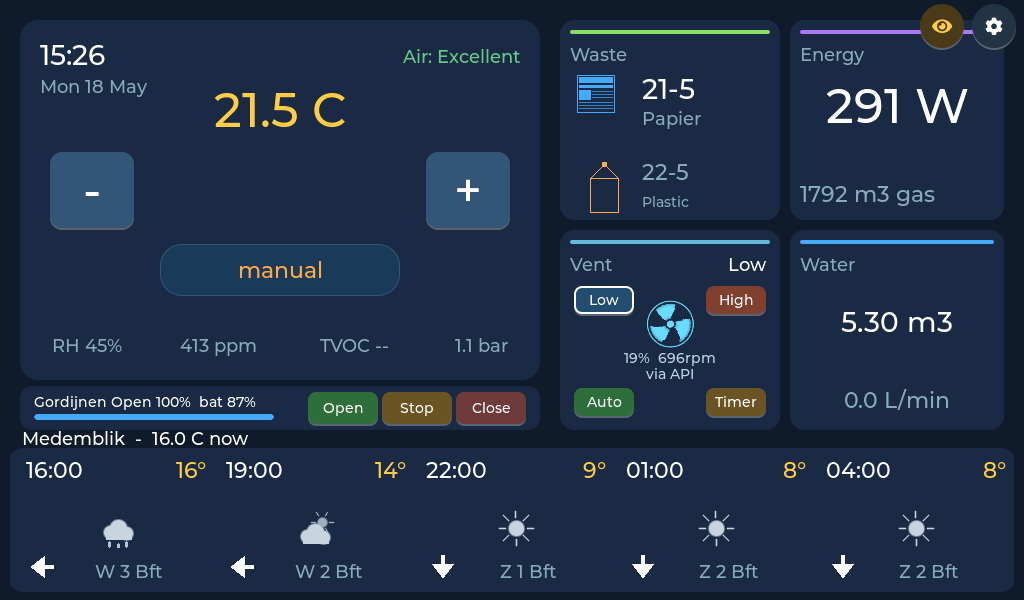
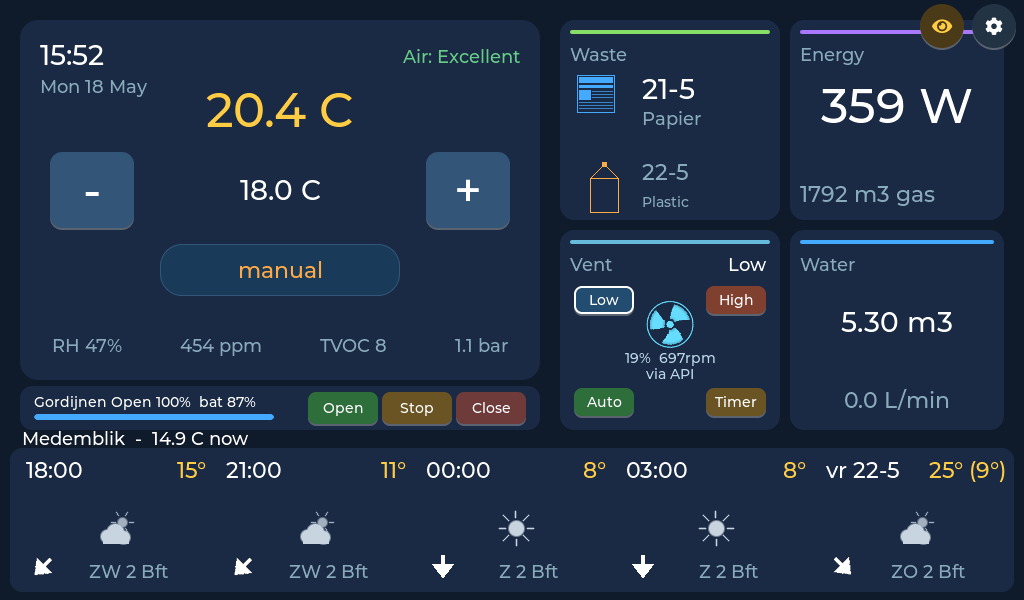
Home/dim setpoint always shown; skip "now" in forecast; dim gets city header + wind; sp_row passes clicks through; schedule timeline rotated to vertical (column per day)
1. Setpoint now visible on home + dim regardless of CH state. Only
   the "to" prefix is gated on burner_on so idle shows "18.0 C" and
   heating shows "to 22.0 C" — fixes the "setpoint fully gone when
   idle" regression.

2. Home + dim forecast strips skip the first hourly slot (which
   duplicates the "<town> - 14.9 C now" header). Daily fallback
   unchanged.

3. Dim screen gains its own city header ("<town> - X.X C now")
   sitting just above the forecast strip, mirroring the home tile.

4. Dim forecast slots now show wind direction inline with the temp
   (e.g. "15 C  ZW2"), bringing it to parity with the home strip.

5. Heater detail navigation: the sp_row (the [-] setpoint [+] card on
   the home tile) used to be an lv_obj which absorbs every click. The
   user could no longer tap the heater tile to open detail because
   the bottom half of the tile was an unclickable dead zone. Cleared
   the CLICKABLE flag on sp_row so taps on its dead-centre label
   pass through to the tile click handler; the +/- buttons keep
   their own handlers untouched.

6. Schedule timeline flipped from horizontal (7 rows x 24 cols) to
   vertical (7 cols x 24 rows). Each weekday is now a column with
   00:00 at the top and 24:00 at the bottom, schedule blocks
   stacked vertically inside, "now" indicator a horizontal stripe
   across today's column. Reads like a planner.

diff --git a/lvgl_ui_recovered/src/screen_schedule.c b/lvgl_ui_recovered/src/screen_schedule.c
@@ -27,13 +27,14 @@ static lv_obj_t * timeline_now_line;
 static lv_obj_t * day_list;       /* parent of switch-point rows */
 static lv_timer_t * refresh_timer = NULL;
 
-/* Layout constants */
-#define TL_X        70
-#define TL_Y        160
-#define TL_W        920
-#define TL_H        180
-#define TL_ROW_H    24
-#define HOUR_PX     (TL_W / 24)   /* ~38 px per hour */
+/* Layout constants — VERTICAL orientation: one column per weekday, time
+ * runs top→bottom (00:00 at top, 24:00 at bottom). Reads like a planner. */
+#define TL_X        80
+#define TL_Y        140
+#define TL_COL_W    120                /* width of each weekday column   */
+#define TL_HOUR_PX  18                 /* vertical pixels per hour        */
+#define TL_H        (24 * TL_HOUR_PX)  /* total height = 432 px           */
+#define TL_W        (7  * TL_COL_W)    /* total width  = 840 px           */
 
 /* Forward decls */
 static void rebuild_day_list(void);
@@ -60,75 +61,98 @@ static void on_chip_tap(lv_event_t * e) {
     rebuild_day_list();
 }
 
-/* ---------- timeline ---------- */
+/* ---------- timeline (vertical layout) ---------- */
 static void rebuild_timeline(void) {
     /* Clear all children of timeline_box except the now-line. */
     lv_obj_clean(timeline_box);
     timeline_now_line = NULL;
 
-    /* Hour gridlines for visual reference (every 6h). */
-    for (int h = 0; h <= 24; h += 6) {
+    /* Day-of-week column headers across the top inside the timeline box. */
+    for (int d = 0; d < 7; d++) {
+        lv_obj_t * h = lv_label_create(timeline_box);
+        lv_label_set_text(h, schedule_day_short(d));
+        lv_obj_set_style_text_color(h, lv_color_hex(0x88aabb), 0);
+        lv_obj_set_style_text_font(h, &lv_font_montserrat_18, 0);
+        lv_obj_set_width(h, TL_COL_W);
+        lv_obj_set_style_text_align(h, LV_TEXT_ALIGN_CENTER, 0);
+        lv_obj_set_pos(h, d * TL_COL_W, -28);
+    }
+
+    /* Horizontal hour gridlines every 6 hours, spanning all 7 day columns. */
+    for (int hr = 0; hr <= 24; hr += 6) {
+        int y = hr * TL_HOUR_PX;
         lv_obj_t * tick = lv_obj_create(timeline_box);
-        lv_obj_set_size(tick, 1, 7 * TL_ROW_H);
-        lv_obj_set_pos(tick, h * HOUR_PX, 0);
+        lv_obj_set_size(tick, TL_W, 1);
+        lv_obj_set_pos(tick, 0, y);
         lv_obj_set_style_bg_color(tick, lv_color_hex(0x223344), 0);
         lv_obj_set_style_border_width(tick, 0, 0);
         lv_obj_set_style_radius(tick, 0, 0);
         lv_obj_clear_flag(tick, LV_OBJ_FLAG_SCROLLABLE);
+        /* Hour label on the LEFT outside the column area. */
+        lv_obj_t * hl = lv_label_create(timeline_box);
+        lv_label_set_text_fmt(hl, "%02d", hr);
+        lv_obj_set_style_text_color(hl, lv_color_hex(0x88aabb), 0);
+        lv_obj_set_style_text_font(hl, &lv_font_montserrat_14, 0);
+        lv_obj_set_pos(hl, -32, y - 7);
     }
 
-    /* Schedule blocks. Entries can span days (e.g., 23:00 Mon → 07:00 Tue),
-       so we may need to draw two rectangles per entry. */
+    /* Schedule blocks. Each is a vertical rectangle inside its day's
+     * column, from start-time at the top to end-time below. Overnight
+     * entries split into a "rest of source day" piece + "start of next
+     * day" piece. */
     for (int i = 0; i < schedule_count; i++) {
         const schedule_entry_t * e = &schedule_entries[i];
-        int s_min_of_day = e->start_hour * 60 + e->start_min;
-        int e_min_of_day = e->end_hour   * 60 + e->end_min;
+        int s_min = e->start_hour * 60 + e->start_min;
+        int e_min = e->end_hour   * 60 + e->end_min;
         int day = e->start_day;
-        if (e->end_day == e->start_day && e_min_of_day > s_min_of_day) {
-            /* Same-day segment */
-            int x1 = (s_min_of_day * HOUR_PX) / 60;
-            int x2 = (e_min_of_day * HOUR_PX) / 60;
+        uint32_t col = schedule_state_color(e->target_state);
+        int col_x = day * TL_COL_W + 4;
+        int col_w = TL_COL_W - 8;
+        if (e->end_day == e->start_day && e_min > s_min) {
+            int y1 = (s_min * TL_HOUR_PX) / 60;
+            int y2 = (e_min * TL_HOUR_PX) / 60;
             lv_obj_t * b = lv_obj_create(timeline_box);
-            lv_obj_set_size(b, x2 - x1, TL_ROW_H - 4);
-            lv_obj_set_pos(b, x1, day * TL_ROW_H + 2);
-            lv_obj_set_style_bg_color(b, lv_color_hex(schedule_state_color(e->target_state)), 0);
+            lv_obj_set_size(b, col_w, y2 - y1);
+            lv_obj_set_pos(b, col_x, y1);
+            lv_obj_set_style_bg_color(b, lv_color_hex(col), 0);
             lv_obj_set_style_border_width(b, 0, 0);
             lv_obj_set_style_radius(b, 3, 0);
             lv_obj_clear_flag(b, LV_OBJ_FLAG_SCROLLABLE);
         } else {
-            /* Overnight: draw two parts. */
-            int x1 = (s_min_of_day * HOUR_PX) / 60;
-            int x_end_day1 = 24 * HOUR_PX;
+            /* Overnight — bottom slice on start_day, top slice on end_day. */
+            int y1 = (s_min * TL_HOUR_PX) / 60;
+            int y_end = TL_H;
             lv_obj_t * b1 = lv_obj_create(timeline_box);
-            lv_obj_set_size(b1, x_end_day1 - x1, TL_ROW_H - 4);
-            lv_obj_set_pos(b1, x1, day * TL_ROW_H + 2);
-            lv_obj_set_style_bg_color(b1, lv_color_hex(schedule_state_color(e->target_state)), 0);
+            lv_obj_set_size(b1, col_w, y_end - y1);
+            lv_obj_set_pos(b1, col_x, y1);
+            lv_obj_set_style_bg_color(b1, lv_color_hex(col), 0);
             lv_obj_set_style_border_width(b1, 0, 0);
             lv_obj_set_style_radius(b1, 3, 0);
             lv_obj_clear_flag(b1, LV_OBJ_FLAG_SCROLLABLE);
 
-            int x2 = (e_min_of_day * HOUR_PX) / 60;
+            int y2 = (e_min * TL_HOUR_PX) / 60;
             int d2 = e->end_day;
+            int col_x2 = d2 * TL_COL_W + 4;
             lv_obj_t * b2 = lv_obj_create(timeline_box);
-            lv_obj_set_size(b2, x2, TL_ROW_H - 4);
-            lv_obj_set_pos(b2, 0, d2 * TL_ROW_H + 2);
-            lv_obj_set_style_bg_color(b2, lv_color_hex(schedule_state_color(e->target_state)), 0);
+            lv_obj_set_size(b2, col_w, y2);
+            lv_obj_set_pos(b2, col_x2, 0);
+            lv_obj_set_style_bg_color(b2, lv_color_hex(col), 0);
             lv_obj_set_style_border_width(b2, 0, 0);
             lv_obj_set_style_radius(b2, 3, 0);
             lv_obj_clear_flag(b2, LV_OBJ_FLAG_SCROLLABLE);
         }
     }
 
-    /* "Now" vertical line */
+    /* "Now" horizontal stripe across the current day's column. */
     time_t now = time(NULL);
     struct tm tm;
     localtime_r(&now, &tm);
     int wd = tm.tm_wday;            /* 0=Sunday..6=Saturday in tm */
     int toon_day = (wd + 6) % 7;    /* convert to 0=Mon */
-    int x_now = ((tm.tm_hour * 60 + tm.tm_min) * HOUR_PX) / 60;
+    int y_now = ((tm.tm_hour * 60 + tm.tm_min) * TL_HOUR_PX) / 60;
     timeline_now_line = lv_obj_create(timeline_box);
-    lv_obj_set_size(timeline_now_line, 2, TL_ROW_H);
-    lv_obj_set_pos(timeline_now_line, x_now - 1, toon_day * TL_ROW_H);
+    lv_obj_set_size(timeline_now_line, TL_COL_W, 2);
+    lv_obj_set_pos(timeline_now_line, toon_day * TL_COL_W, y_now - 1);
     lv_obj_set_style_bg_color(timeline_now_line, lv_color_hex(0xffffff), 0);
     lv_obj_set_style_border_width(timeline_now_line, 0, 0);
     lv_obj_set_style_radius(timeline_now_line, 0, 0);
@@ -447,10 +471,10 @@ static void refresh_cb(lv_timer_t * t) {
     localtime_r(&now, &tm);
     int wd = tm.tm_wday;
     int toon_day = (wd + 6) % 7;
-    int x_now = ((tm.tm_hour * 60 + tm.tm_min) * HOUR_PX) / 60;
+    int y_now = ((tm.tm_hour * 60 + tm.tm_min) * TL_HOUR_PX) / 60;
     timeline_now_line = lv_obj_create(timeline_box);
-    lv_obj_set_size(timeline_now_line, 2, TL_ROW_H);
-    lv_obj_set_pos(timeline_now_line, x_now - 1, toon_day * TL_ROW_H);
+    lv_obj_set_size(timeline_now_line, TL_COL_W, 2);
+    lv_obj_set_pos(timeline_now_line, toon_day * TL_COL_W, y_now - 1);
     lv_obj_set_style_bg_color(timeline_now_line, lv_color_hex(0xffffff), 0);
     lv_obj_set_style_border_width(timeline_now_line, 0, 0);
     lv_obj_set_style_radius(timeline_now_line, 0, 0);

diff --git a/lvgl_ui_recovered/src/screen_dim.c b/lvgl_ui_recovered/src/screen_dim.c
@@ -38,6 +38,8 @@ static lv_obj_t * lbl_waste = NULL;
 static lv_obj_t * dim_fc_icon[WEATHER_FORECAST_DAYS];
 static lv_obj_t * dim_fc_day[WEATHER_FORECAST_DAYS];
 static lv_obj_t * dim_fc_temp[WEATHER_FORECAST_DAYS];
+/* City header above the forecast strip — mirrors the home tile. */
+static lv_obj_t * dim_lbl_city = NULL;
 static lv_obj_t * dim_vent_fan  = NULL;   /* spinning fan icon */
 static lv_obj_t * dim_vent_lbl  = NULL;   /* "57 %" — actual ExhFanSpeed */
 static lv_obj_t * dim_img_water = NULL;   /* drop icon, visible while pouring */
@@ -107,11 +109,16 @@ static void refresh_cb(lv_timer_t * t) {
         lv_label_set_text_fmt(lbl_temp, "%.1f C", display_indoor_temp(toon_state.indoor_temp));
     else
         lv_label_set_text(lbl_temp, "...");
-    /* "to X" only when CH is actively heating — see screen_home.c. */
-    if (toon_state.burner_on && toon_state.setpoint > 0)
-        lv_label_set_text_fmt(lbl_setpoint, "to %.1f C", toon_state.setpoint);
-    else
+    /* Setpoint visible at all times; "to" prefix only when the boiler is
+     * actively heating toward it (see screen_home.c for the same idea). */
+    if (toon_state.setpoint > 0) {
+        if (toon_state.burner_on)
+            lv_label_set_text_fmt(lbl_setpoint, "to %.1f C", toon_state.setpoint);
+        else
+            lv_label_set_text_fmt(lbl_setpoint, "%.1f C", toon_state.setpoint);
+    } else {
         lv_label_set_text(lbl_setpoint, "");
+    }
 
     lv_label_set_text(lbl_program, program_label());
 
@@ -229,22 +236,52 @@ static void refresh_cb(lv_timer_t * t) {
     }
     /* Forecast strip — 3-hourly to match home screen. Falls back to daily
      * if the hourly feed hasn't populated yet (first 30 s after boot). */
+    /* City header — same as home tile, sits just above the forecast
+     * strip. Mirrors the format the home screen uses. */
+    if (dim_lbl_city) {
+        if (settings.show_dim_weather && weather_state.connected) {
+            const char * city = settings.weather_location[0]
+                                ? settings.weather_location : "Forecast";
+            lv_label_set_text_fmt(dim_lbl_city, "%s  -  %.1f C now",
+                                  city, weather_state.current_temp);
+            lv_obj_clear_flag(dim_lbl_city, LV_OBJ_FLAG_HIDDEN);
+        } else {
+            lv_obj_add_flag(dim_lbl_city, LV_OBJ_FLAG_HIDDEN);
+        }
+    }
+
     int use_hourly = settings.show_dim_weather && weather_state.hour_count > 0;
     int n_slots    = use_hourly ? weather_state.hour_count : weather_state.day_count;
     for (int i = 0; i < WEATHER_FORECAST_DAYS; i++) {
         if (!dim_fc_icon[i]) continue;
-        if (settings.show_dim_weather && i < n_slots) {
+        /* For the hourly view, skip slot 0 — it's "now" and already lives
+         * in the city header above. Daily view shows all 5 days from 0. */
+        int si = use_hourly ? i + 1 : i;
+        if (settings.show_dim_weather && si < n_slots) {
             if (use_hourly) {
-                const weather_hour_t * h = &weather_state.hours[i];
+                const weather_hour_t * h = &weather_state.hours[si];
                 lv_img_set_src(dim_fc_icon[i], weather_icon_for(h->icon));
                 lv_label_set_text(dim_fc_day[i], h->label);
-                lv_label_set_text_fmt(dim_fc_temp[i], "%.0f C", h->temperature);
+                /* Combine temp + wind direction on a single line so it
+                 * fits the dim-strip vertical budget. Format:
+                 * "16C  ZW3" — no "Bft" suffix to keep it compact. */
+                if (h->wind_dir[0])
+                    lv_label_set_text_fmt(dim_fc_temp[i], "%.0f C  %s%d",
+                                          h->temperature, h->wind_dir, h->wind_bft);
+                else
+                    lv_label_set_text_fmt(dim_fc_temp[i], "%.0f C",
+                                          h->temperature);
             } else {
                 const weather_day_t * d = &weather_state.days[i];
                 lv_img_set_src(dim_fc_icon[i], weather_icon_for(d->icon));
                 lv_label_set_text(dim_fc_day[i], d->day);
-                lv_label_set_text_fmt(dim_fc_temp[i], "%.0f/%.0f C",
-                                      d->min_temp, d->max_temp);
+                if (d->wind_dir[0])
+                    lv_label_set_text_fmt(dim_fc_temp[i], "%.0f/%.0f  %s%d",
+                                          d->min_temp, d->max_temp,
+                                          d->wind_dir, d->wind_bft);
+                else
+                    lv_label_set_text_fmt(dim_fc_temp[i], "%.0f/%.0f C",
+                                          d->min_temp, d->max_temp);
             }
             lv_obj_clear_flag(dim_fc_icon[i], LV_OBJ_FLAG_HIDDEN);
             lv_obj_clear_flag(dim_fc_day[i],  LV_OBJ_FLAG_HIDDEN);
@@ -502,6 +539,17 @@ lv_obj_t * screen_dim_create(void) {
     lv_label_set_text(lbl_waste, "");
     lv_obj_align(lbl_waste, LV_ALIGN_TOP_LEFT, 30, 140);
     lv_obj_add_flag(lbl_waste, LV_OBJ_FLAG_HIDDEN);
+
+    /* City header above the forecast strip — same content as the home
+     * tile's "Medemblik - 14.5 C now" line. Placed above the strip in
+     * the small gap left between the metrics row and the icons. */
+    dim_lbl_city = lv_label_create(scr_root);
+    lv_obj_set_style_text_color(dim_lbl_city, lv_color_hex(0xbbbbbb), 0);
+    lv_obj_set_style_text_font(dim_lbl_city, &lv_font_montserrat_18, 0);
+    lv_obj_set_width(dim_lbl_city, 1024);
+    lv_obj_set_style_text_align(dim_lbl_city, LV_TEXT_ALIGN_CENTER, 0);
+    lv_label_set_text(dim_lbl_city, "");
+    lv_obj_set_pos(dim_lbl_city, 0, 494);
 
     /* 5-day forecast strip across the bottom of dim. Black/white style:
        40×40 icon at top, day label below, temp range under that. */

diff --git a/lvgl_ui_recovered/src/screen_home.c b/lvgl_ui_recovered/src/screen_home.c
@@ -397,13 +397,17 @@ static void refresh_cb(lv_timer_t * t) {
 
     if (toon_state.indoor_temp > 0)
         lv_label_set_text_fmt(lbl_t_temp, "%.1f C", display_indoor_temp(toon_state.indoor_temp));
-    /* "to X" only when the boiler is actively heating CH — when idle the
-     * setpoint is uninteresting (room is already at/above target), so
-     * blank the label to keep the tile clean. */
-    if (toon_state.burner_on && toon_state.setpoint > 0)
-        lv_label_set_text_fmt(lbl_t_setpoint, "to %.1f C", toon_state.setpoint);
-    else
+    /* Setpoint visible at all times; the "to" prefix only when the CH
+     * burner is actively heating toward it (idle just shows the target
+     * temperature, no arrow). */
+    if (toon_state.setpoint > 0) {
+        if (toon_state.burner_on)
+            lv_label_set_text_fmt(lbl_t_setpoint, "to %.1f C", toon_state.setpoint);
+        else
+            lv_label_set_text_fmt(lbl_t_setpoint, "%.1f C", toon_state.setpoint);
+    } else {
         lv_label_set_text(lbl_t_setpoint, "");
+    }
 
     /* Active scheme (Comfort/Home/Sleep/Away) or "Manual" if overridden. */
     lv_label_set_text(lbl_t_program, program_label());
@@ -751,9 +755,13 @@ static void refresh_cb(lv_timer_t * t) {
     int show_hourly = settings.forecast_mode != FORECAST_DAILY
                       && weather_state.hour_count > 0;
     if (show_hourly) {
-        for (int i = 0; i < weather_state.hour_count
-                     && i < WEATHER_FORECAST_DAYS; i++) {
-            const weather_hour_t * h = &weather_state.hours[i];
+        /* The "Medemblik - X.X C now" header above the strip already shows
+         * the current hour's value, so start at index 1 (the next 3-hour
+         * slot) to avoid duplicating it in the first column. */
+        for (int i = 0; i < WEATHER_FORECAST_DAYS; i++) {
+            int si = i + 1;     /* skip slot 0 — that's "now" */
+            if (si >= weather_state.hour_count) break;
+            const weather_hour_t * h = &weather_state.hours[si];
             lv_label_set_text(fc_day_lbl[i], h->label);
             lv_label_set_text_fmt(fc_temp_lbl[i], "%.0f\xc2\xb0",
                                   h->temperature);
@@ -1043,8 +1051,10 @@ lv_obj_t * screen_home_create(void) {
     lv_label_set_text(lbl_t_temp, "-- C");
     lv_obj_align(lbl_t_temp, LV_ALIGN_CENTER, 0, -90);
 
-    /* Setpoint row: [-] setpoint [+]. Children, so their clicks don't
-       bubble into the tile's open-detail handler. */
+    /* Setpoint row: [-] setpoint [+]. sp_row itself is NOT clickable so
+     * taps on its centre (the setpoint label dead-zone between the two
+     * buttons) pass through to the tile and open the detail page. The
+     * +/- buttons keep their own click handlers. */
     lv_obj_t * sp_row = lv_obj_create(th);
     lv_obj_set_size(sp_row, 460, 84);
     lv_obj_align(sp_row, LV_ALIGN_CENTER, 0, -10);
@@ -1052,6 +1062,7 @@ lv_obj_t * screen_home_create(void) {
     lv_obj_set_style_border_width(sp_row, 0, 0);
     lv_obj_set_style_pad_all(sp_row, 0, 0);
     lv_obj_clear_flag(sp_row, LV_OBJ_FLAG_SCROLLABLE);
+    lv_obj_clear_flag(sp_row, LV_OBJ_FLAG_CLICKABLE);
 
     lv_obj_t * btn_dn = lv_btn_create(sp_row);
     lv_obj_set_size(btn_dn, 84, 76);